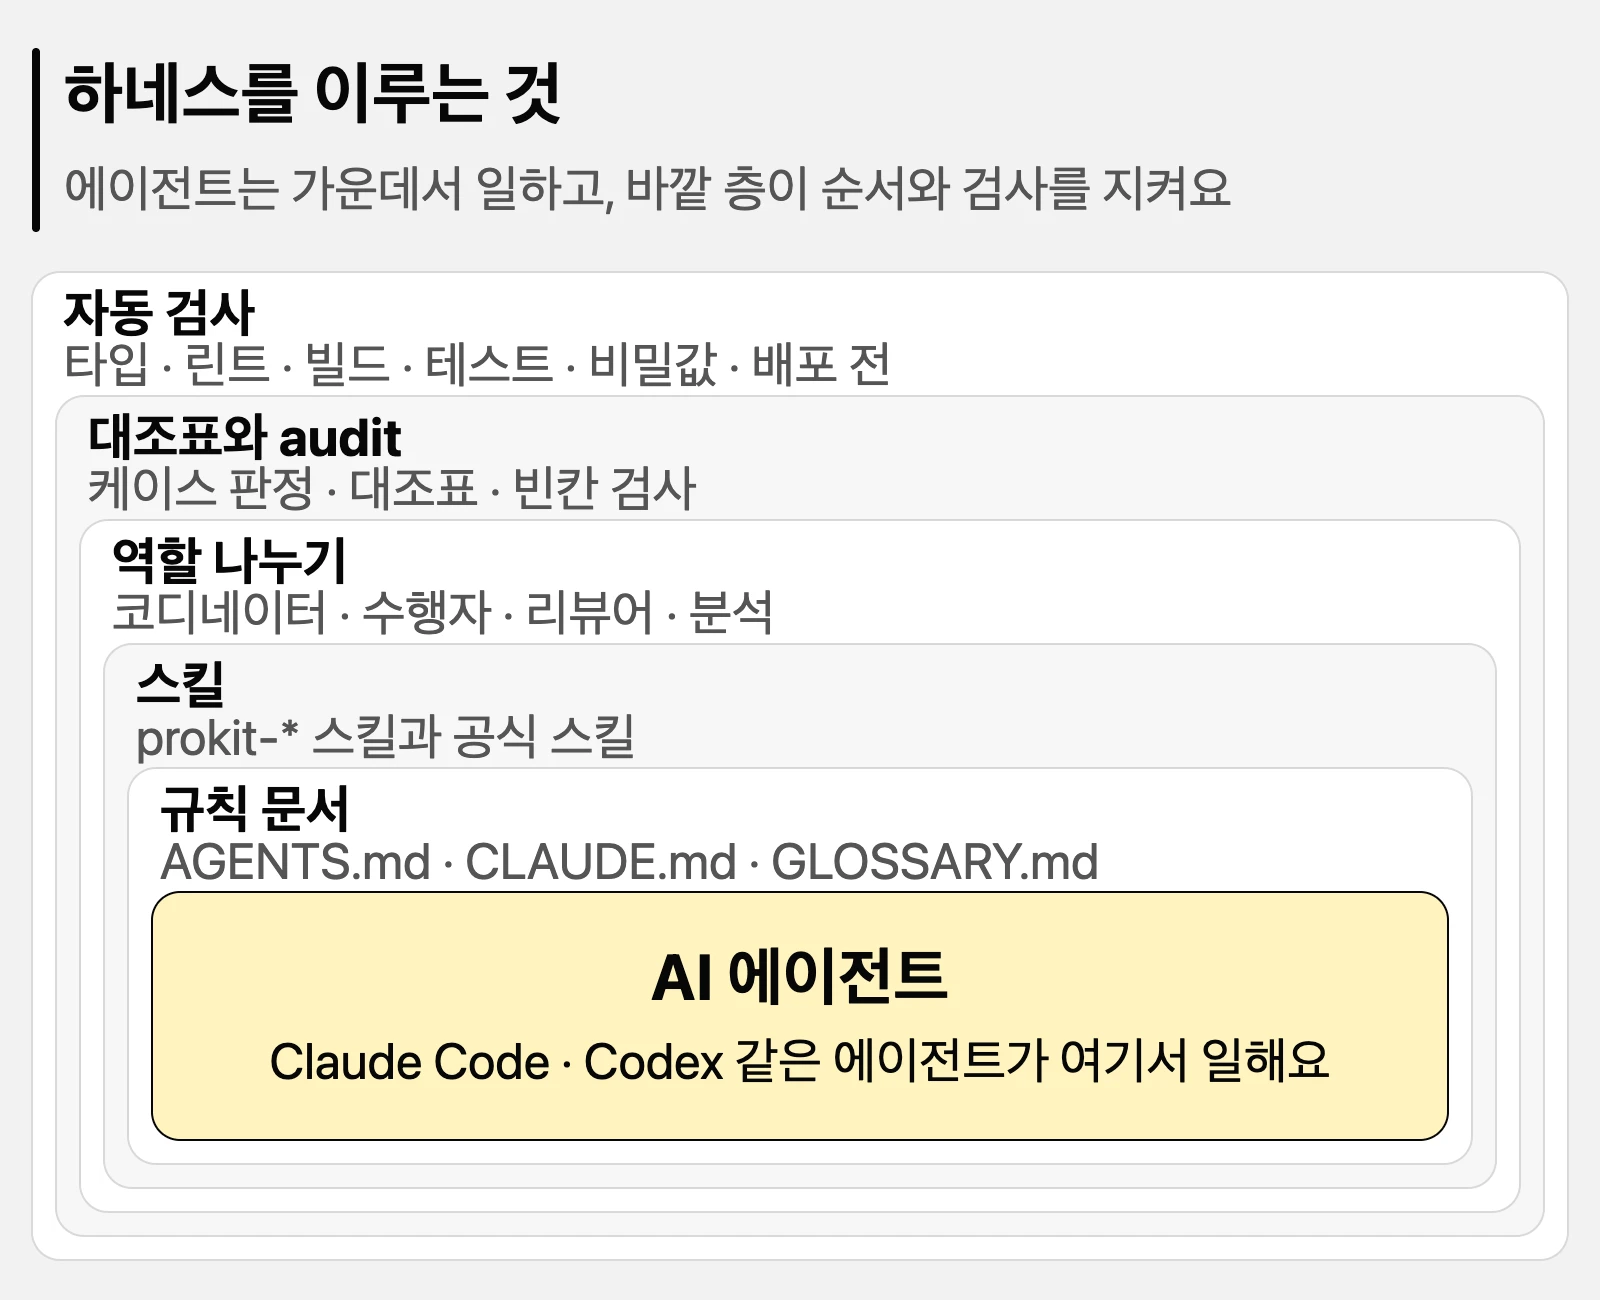
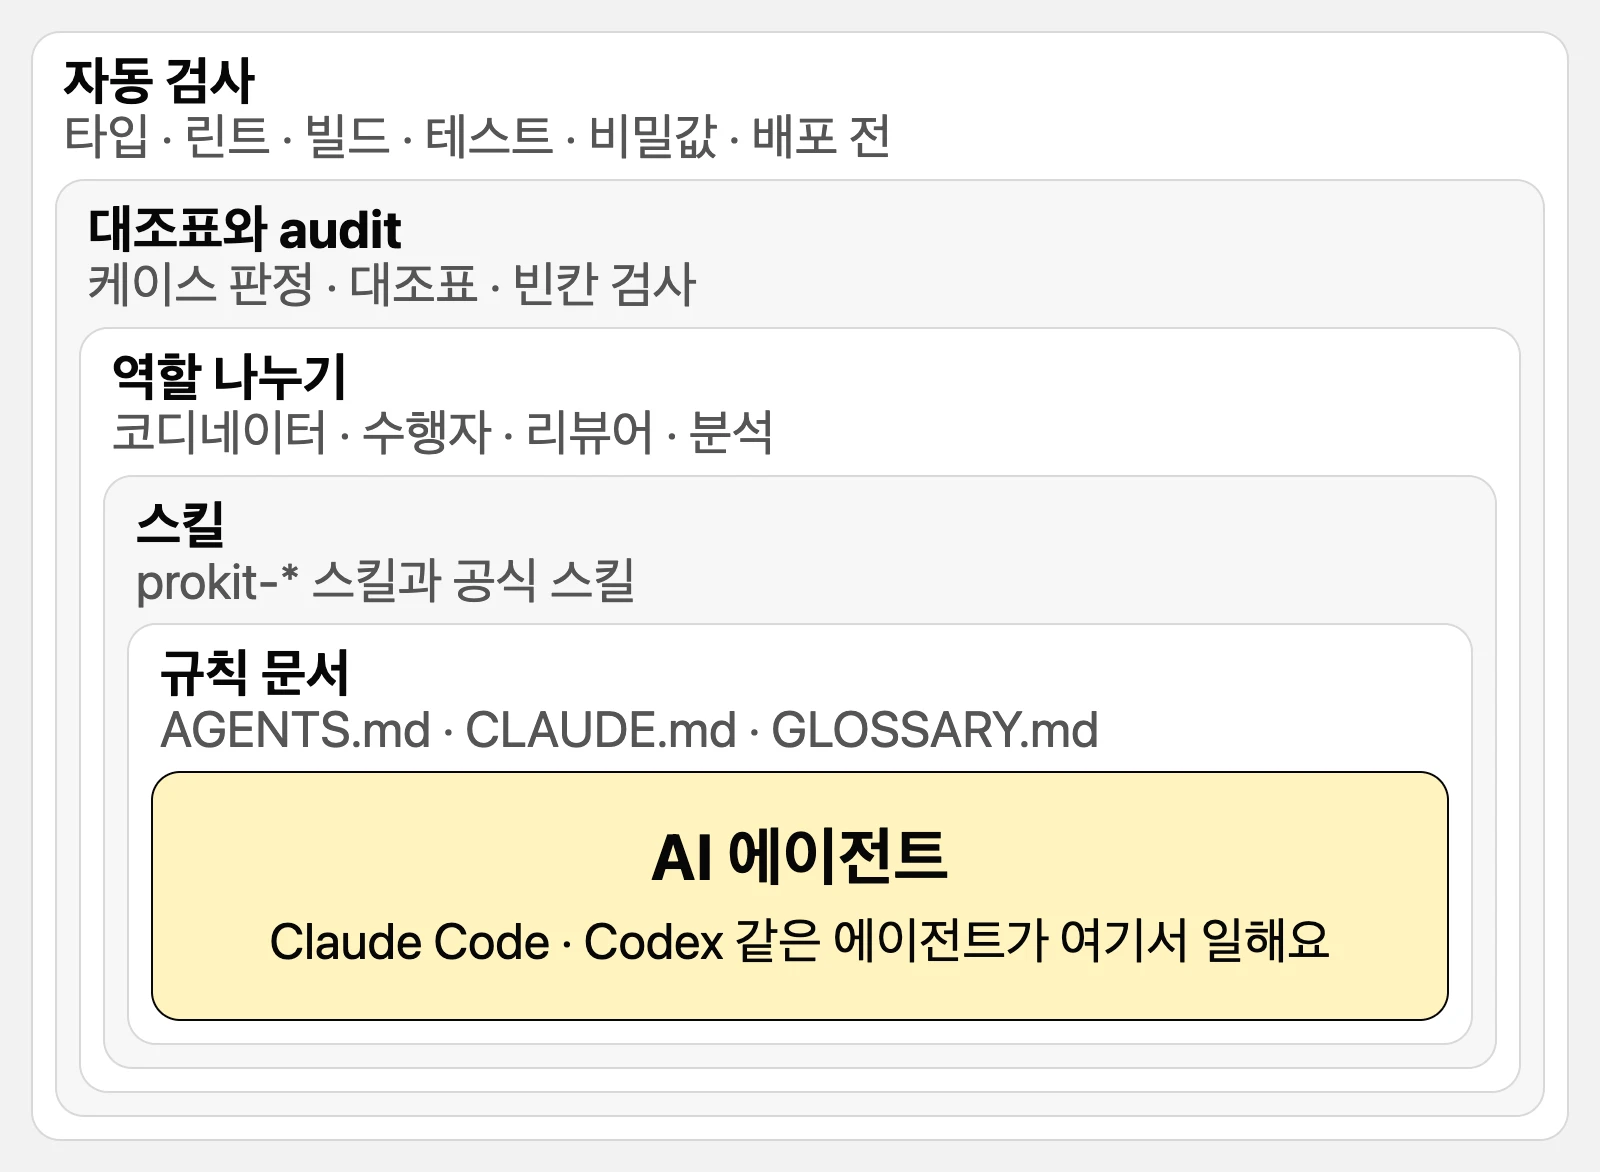
docs: harness 그림과 표 순서를 맞추고 design-md 그래프 안내를 바로잡음
- design-md: 막대가 가려지는 이유를 바로잡고 표에 없는 반경 일치 값을 문장과 접근성 설명에 적음
- harness: 두뇌와 과설계 방지 스킬 표기를 도식과 맞추고 도식의 보이지 않는 연결을 화살표로 바꿈
- harness: 표를 그림과 같은 바깥에서 안쪽 순서로 놓고 역할 나누기 칸의 파일 이름을 agent-roles 링크로 줄임
- harness-layers: 위 제목과 겹치는 그림 안 제목을 빼고 층 제목 위를 띄움. 부제는 본문으로 옮김

Changed region(s): [[0.0, 0.0307, 0.9688, 0.8294], [0.0625, 0.8601, 0.9375, 0.9215], [0.0312, 0.9522, 0.9688, 0.9829]]

diff --git a/docs/common-values.md b/docs/common-values.md
@@ -607,7 +607,7 @@
 | `b:continue-line` | (글 묶음) | "알려 준 한 줄로 이어 가기"의 명령 블록(묻지 않고 진행하게 여는 명령으로 새 프로젝트 폴더를 연다). 인자: folder(프로젝트 폴더) | docs/blocks/continue-line.md | 묶음 원본을 고친다 | 3 |
 | `b:cost-note` | (글 묶음) | 시간과 비용 표 아래의 안내(시간의 앞 숫자와 토큰은 최솟값, 토큰도 늘 수 있다). tutorials/<묶음>/ 쪽에서 쓴다 | docs/blocks/cost-note.md | 묶음 원본을 고친다 | 12 |
 | `b:course-trouble` | (글 묶음) | 클론 튜토리얼 README(tutorials/01-nextflix, 02-claudle)의 "막히면" 목록 전체(첫 프롬프트 공통 줄, 프리셋 팩, Docker, 한도). 목록이 끊기지 않게 목록 전체를 묶는다. 인자: folder와 name(둘 다 프로젝트 이름. 포함한 first-trouble은 folder, trouble-pack은 name을 쓴다), iyo(이름 뒤 "예요" 또는 "이에요") | docs/blocks/course-trouble.md | 묶음 원본을 고친다 | 2 |
-| `b:design-md-effect-chart` | (글 묶음) | handbook/design/design-md.md "효과"의 막대그래프(mermaid xychart). 팔레트 일치·글자 크기 일치·두 번째 화면 색 일관성 막대는 아래 표와 같이 eval.designMd.*(neon VERIFICATION.md DESIGN.md 효과 측정 결과 표에서 읽는 값)를 쓴다. 반경 일치 막대는 이 그래프에만 있고, 블라인드 종합 승률은 표의 종합 승수를 평가 횟수로 나눈 %다 | docs/blocks/design-md-effect-chart.md | 묶음 원본을 고친다 | 1 |
+| `b:design-md-effect-chart` | (글 묶음) | handbook/design/design-md.md "효과"의 막대그래프(mermaid xychart). 팔레트 일치·글자 크기 일치·두 번째 화면 색 일관성 막대는 아래 표와 같이 eval.designMd.*(neon VERIFICATION.md DESIGN.md 효과 측정 결과 표에서 읽는 값)를 쓴다. 반경 일치 막대는 아래 표에 없고(쪽 본문 문장에 적는다), 블라인드 종합 승률은 표의 종합 승수를 평가 횟수로 나눈 %다 | docs/blocks/design-md-effect-chart.md | 묶음 원본을 고친다 | 1 |
 | `b:env-vscode-steps` | (글 묶음) | `.env` 파일을 VS Code로 만드는 번호 목록의 1~2번(작업 폴더 열기, 새 파일 만들기). tutorials/reference/costs-and-keys.md(이미지 키)와 deploy.md(배포 토큰)가 쓴다. 3번이 쪽마다 달라 번호 목록 중간이라 묶음 표시를 달면 목록이 끊기므로, 표시 없이 이 원본과 같은 글로 두고 테스트(CASES)가 지킨다 | docs/blocks/env-vscode-steps.md | 묶음 원본을 고친다 | 2 |
 | `b:env-vscode-tip` | (글 묶음) | `.env` 파일을 VS Code로 만드는 1~2번을 에이전트에게 부탁해도 된다는 TIP. tutorials/reference/costs-and-keys.md(이미지 키)와 deploy.md(배포 토큰)가 쓴다. 인자: what(붙여 넣을 것. 조사까지 "키를" 또는 "토큰을") | docs/blocks/env-vscode-tip.md | 묶음 원본을 고친다 | 2 |
 | `b:exit-line` | (글 묶음) | "3. 알려 준 한 줄로 이어 가기"의 첫 문단(에이전트를 닫고 알려 준 한 줄을 터미널에 붙여 넣는다). 바로 뒤에 continue-line 묶음이 온다 | docs/blocks/exit-line.md | 묶음 원본을 고친다 | 3 |

diff --git a/docs/blocks/design-md-effect-chart.md b/docs/blocks/design-md-effect-chart.md
@@ -1,9 +1,9 @@
-<!-- handbook/design/design-md.md "효과"의 막대그래프(mermaid xychart). 팔레트 일치·글자 크기 일치·두 번째 화면 색 일관성 막대는 아래 표와 같이 eval.designMd.*(neon VERIFICATION.md DESIGN.md 효과 측정 결과 표에서 읽는 값)를 쓴다. 반경 일치 막대는 이 그래프에만 있고, 블라인드 종합 승률은 표의 종합 승수를 평가 횟수로 나눈 %다 -->
+<!-- handbook/design/design-md.md "효과"의 막대그래프(mermaid xychart). 팔레트 일치·글자 크기 일치·두 번째 화면 색 일관성 막대는 아래 표와 같이 eval.designMd.*(neon VERIFICATION.md DESIGN.md 효과 측정 결과 표에서 읽는 값)를 쓴다. 반경 일치 막대는 아래 표에 없고(쪽 본문 문장에 적는다), 블라인드 종합 승률은 표의 종합 승수를 평가 횟수로 나눈 %다 -->
 ```mermaid
 %%{init: {"themeVariables": {"xyChart": {"plotColorPalette": "#2a78d6, #8c929b"}}}}%%
 xychart-beta
   accTitle: DESIGN.md 효과
-  accDescr: DESIGN.md가 있을 때와 브랜드 이름과 대표 색만 있을 때를 다섯 항목으로 견줘요. DESIGN.md가 있으면 팔레트, 글자 크기, 반경 일치와 블라인드 승률이 더 높고, 두 번째 화면 색 일관성만 조금 낮아요.
+  accDescr: DESIGN.md가 있을 때와 브랜드 이름과 대표 색만 있을 때를 다섯 항목으로 견줘요. DESIGN.md가 있으면 팔레트, 글자 크기, 반경 일치와 블라인드 승률이 더 높고, 두 번째 화면 색 일관성만 조금 낮아요. 반경 일치는 100% 대 약 88%예요.
   title "DESIGN.md 있음(파랑)과 브랜드 이름·대표 색만(회색) (%)"
   x-axis ["팔레트 일치", "글자 크기 일치", "반경 일치", "두 번째 화면 색 일관성", "블라인드 종합 승률"]
   y-axis "%" 0 --> 100

diff --git a/handbook/design/design-md.md b/handbook/design/design-md.md
@@ -131,7 +131,7 @@ DESIGN.md
 %%{init: {"themeVariables": {"xyChart": {"plotColorPalette": "#2a78d6, #8c929b"}}}}%%
 xychart-beta
   accTitle: DESIGN.md 효과
-  accDescr: DESIGN.md가 있을 때와 브랜드 이름과 대표 색만 있을 때를 다섯 항목으로 견줘요. DESIGN.md가 있으면 팔레트, 글자 크기, 반경 일치와 블라인드 승률이 더 높고, 두 번째 화면 색 일관성만 조금 낮아요.
+  accDescr: DESIGN.md가 있을 때와 브랜드 이름과 대표 색만 있을 때를 다섯 항목으로 견줘요. DESIGN.md가 있으면 팔레트, 글자 크기, 반경 일치와 블라인드 승률이 더 높고, 두 번째 화면 색 일관성만 조금 낮아요. 반경 일치는 100% 대 약 88%예요.
   title "DESIGN.md 있음(파랑)과 브랜드 이름·대표 색만(회색) (%)"
   x-axis ["팔레트 일치", "글자 크기 일치", "반경 일치", "두 번째 화면 색 일관성", "블라인드 종합 승률"]
   y-axis "%" 0 --> 100
@@ -140,7 +140,7 @@ xychart-beta
 ```
 <!-- /b -->
 
-두 번째 화면 색 일관성은 두 값이 거의 같아서 파랑 막대가 회색 막대에 가려져요. 값은 아래 표에서 볼 수 있어요.
+두 번째 화면 색 일관성은 회색 값이 더 높고 나중에 그려져서 파랑 막대가 회색 막대에 가려져요. 값은 아래 표에서 볼 수 있어요. 반경 일치는 표에 따로 적지 않았고, `DESIGN.md`가 있을 때 100%, 브랜드 이름과 대표 색만 있을 때 약 88%예요.
 
 | 지표 (서비스 <!-- v:eval.designMd.services -->4<!-- /v -->개, 8화면) | DESIGN.md 있음 | 브랜드 이름·대표 색만 |
 |---|---|---|
